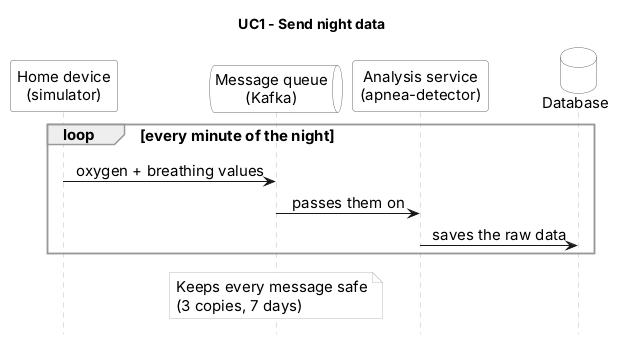
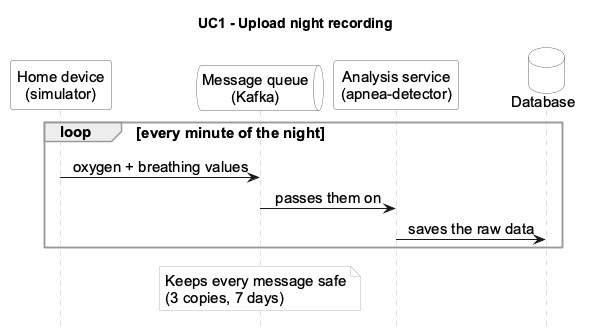
diagrams: sequence diagrams match the use case diagram

diff --git a/diagrams/sequences/10.11_A_UC1-send-night-data_v1.md b/diagrams/sequences/10.11_A_UC1-send-night-data_v1.md
@@ -1,10 +1,10 @@
-# UC1 – Send night data
+# UC1 – Upload night recording
 
-Part of the [sequence diagram v2](../30.10_B_sequence-diagram_v2.md). Use cases overview: [README](../../README.md#use-cases). · Source (PlantUML): [10.11_A_UC1-send-night-data_v1.puml](10.11_A_UC1-send-night-data_v1.puml) · Image: [10.11_A_UC1-send-night-data_v1.png](10.11_A_UC1-send-night-data_v1.png)
+Use cases overview: [README](../../README.md#use-cases). · Source (PlantUML): [10.11_A_UC1-send-night-data_v1.puml](10.11_A_UC1-send-night-data_v1.puml) · Image: [10.11_A_UC1-send-night-data_v1.png](10.11_A_UC1-send-night-data_v1.png)
 
 | | |
 | --- | --- |
-| **Actor** | Device (`device-simulator`) |
+| **Actor** | Home device (simulated by `device-simulator`) |
 | **Goal** | The SpO₂ and breathing data of one night arrives in the system and the raw night is saved. |
 | **Trigger** | The simulator starts a night for one of the 5 patients (or many nights at once in burst mode, see UC6). |
 | **Precondition** | Kafka (3 brokers) and PostgreSQL are running; topic `raw-signals` exists (3 partitions). |

diff --git a/diagrams/sequences/10.11_A_UC3-raise-an-alert_v1.md b/diagrams/sequences/10.11_A_UC3-raise-an-alert_v1.md
@@ -1,10 +1,10 @@
-# UC3 – Raise an alert
+# UC3 – Raise urgent alert
 
-Part of the [sequence diagram v2](../30.10_B_sequence-diagram_v2.md). Use cases overview: [README](../../README.md#use-cases). · Source (PlantUML): [10.11_A_UC3-raise-an-alert_v1.puml](10.11_A_UC3-raise-an-alert_v1.puml) · Image: [10.11_A_UC3-raise-an-alert_v1.png](10.11_A_UC3-raise-an-alert_v1.png)
+Use cases overview: [README](../../README.md#use-cases). · Source (PlantUML): [10.11_A_UC3-raise-an-alert_v1.puml](10.11_A_UC3-raise-an-alert_v1.puml) · Image: [10.11_A_UC3-raise-an-alert_v1.png](10.11_A_UC3-raise-an-alert_v1.png)
 
 | | |
 | --- | --- |
-| **Actors** | System, doctor |
+| **Actor** | Doctor |
 | **Goal** | When SpO₂ drops below 80 %, the doctor sees an alert on the dashboard right away. Alerts never wait. |
 | **Trigger** | A `raw-signals` minute with SpO₂ < 80 %. |
 | **Precondition** | `alert-service` is running and listens on ZeroMQ. |

diff --git a/README.md b/README.md
@@ -90,7 +90,7 @@ After the checkpoint 1 feedback we are redrawing all diagrams in **PlantUML** wi
 
 - use case diagram (actors and use cases) – [`diagrams/usecases/`](diagrams/usecases/10.11_B_use-cases_v1.md)
 - database schema (ER diagram) – `diagrams/db_schema/`, described in [doc/database-tables.md](doc/database-tables.md)
-- one sequence diagram for each use case, with its description – [`diagrams/sequences/`](diagrams/sequences/README.md)
+- one sequence diagram for each use case, with its description – [`diagrams/sequences/`](diagrams/sequences/)
 - component diagram with interfaces
 - deployment diagram (Kubernetes, regions, CI/CD)
 

diff --git a/diagrams/sequences/10.11_A_UC4-review-a-result_v1.md b/diagrams/sequences/10.11_A_UC4-review-a-result_v1.md
@@ -1,6 +1,6 @@
-# UC4 – Review a result
+# UC4 – Review & approve result
 
-Part of the [sequence diagram v2](../30.10_B_sequence-diagram_v2.md). Use cases overview: [README](../../README.md#use-cases). · Source (PlantUML): [10.11_A_UC4-review-a-result_v1.puml](10.11_A_UC4-review-a-result_v1.puml) · Image: [10.11_A_UC4-review-a-result_v1.png](10.11_A_UC4-review-a-result_v1.png)
+Use cases overview: [README](../../README.md#use-cases). · Source (PlantUML): [10.11_A_UC4-review-a-result_v1.puml](10.11_A_UC4-review-a-result_v1.puml) · Image: [10.11_A_UC4-review-a-result_v1.png](10.11_A_UC4-review-a-result_v1.png)
 
 | | |
 | --- | --- |

diff --git a/diagrams/sequences/10.11_A_UC2-analyse-a-night_v1.md b/diagrams/sequences/10.11_A_UC2-analyse-a-night_v1.md
@@ -4,7 +4,7 @@ Use cases overview: [README](../../README.md#use-cases) · Source (PlantUML): [1
 
 | | |
 | --- | --- |
-| **Actors** | System; Carbon intensity source (secondary, through UC5) |
+| **Actor** | Carbon intensity source (secondary, through UC5) |
 | **Goal** | Find apnea events, calculate the AHI and the severity of the night, write a short summary for the doctor and measure the CO₂ of the analysis. |
 | **Trigger** | `raw-signals` messages of a night arrive (UC1). |
 | **Precondition** | The model file `models/model.joblib` is in the detector image. The carbon-scheduler sends the carbon mode to `carbon-signal` (UC5). |

diff --git a/diagrams/usecases/10.11_B_use-cases_v1.md b/diagrams/usecases/10.11_B_use-cases_v1.md
@@ -2,7 +2,7 @@
 
 All use cases of the system and their actors. Source (PlantUML): [10.11_B_use-cases_v1.puml](10.11_B_use-cases_v1.puml) · Image: [10.11_B_use-cases_v1.png](10.11_B_use-cases_v1.png)
 
-The description and the sequence diagram of each use case are in [`../sequences/`](../sequences/README.md). The short table is in the [README](../../README.md#use-cases).
+The description and the sequence diagram of each use case are in [`../sequences/`](../sequences/). The short table is in the [README](../../README.md#use-cases).
 
 | Actor | Use cases |
 | --- | --- |
